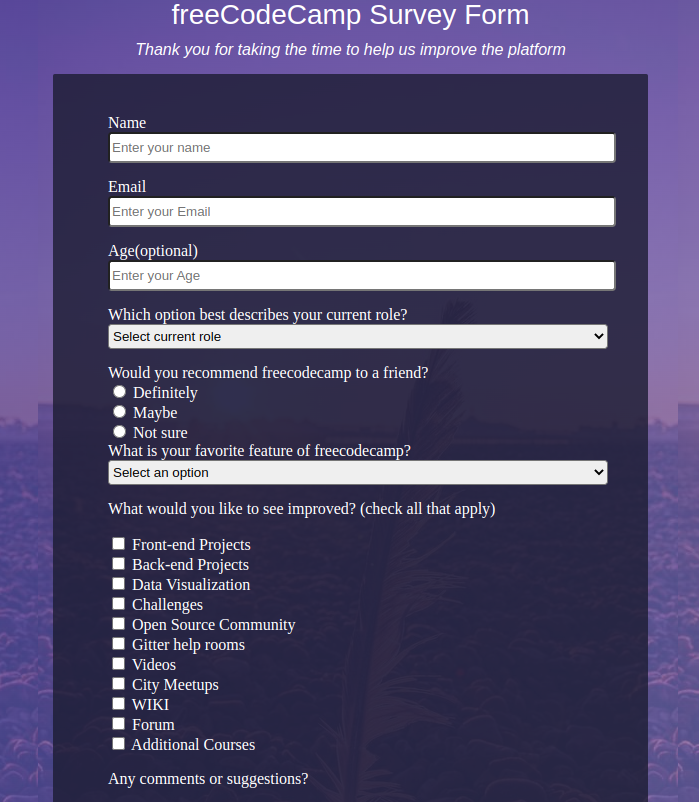
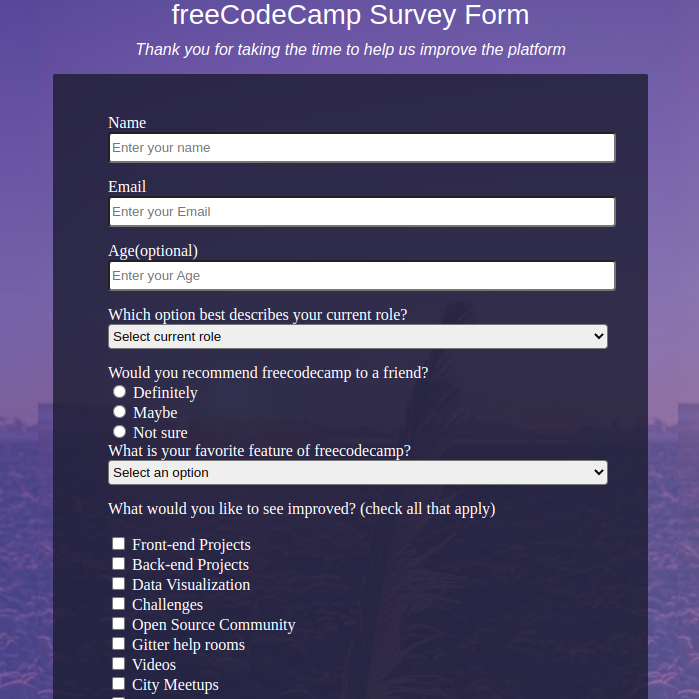
made it more responsive

diff --git a/assets/styles/styles.css b/assets/styles/styles.css
@@ -2,6 +2,7 @@ body {
   font-family: poppins, sans-serif;
   margin: 0;
   background-color: #303841;
+  scroll-behavior: smooth;
 }
 
 .nav {
@@ -24,6 +25,7 @@ body {
   font-size: 4vmin;
   text-decoration: none;
   color: #fff;
+  transition: 1s;
 }
 
 .dark-body {
@@ -58,7 +60,7 @@ body {
 }
 
 .project-containers {
-  width: 100%;
+  width: 98%;
   padding: 0;
   display: grid;
   grid-template-columns: 1fr 1fr 1fr;
@@ -143,6 +145,7 @@ img {
   font-size: 3.5rem;
   padding-top: 30vh;
   font-weight: bold;
+  word-break: keep-all;
 }
 
 .contact-header2 {
@@ -153,12 +156,13 @@ img {
 }
 
 .media-links {
-  background-color: gold;
   margin: 2.8rem auto 25rem;
-  text-align: center;
   display: flex;
+  flex-wrap: wrap;
   width: fit-content;
   height: fit-content;
+  margin: auto;
+  justify-content: space-around;
 }
 
 .media-links div {
@@ -166,7 +170,7 @@ img {
   flex-wrap: nowrap;
   padding: 5px;
   width: fit-content;
-  /* margin: auto; */
+  height: fit-content;
 }
 
 
@@ -174,6 +178,7 @@ img {
   transition: 0.5s;
   margin-top: 15px;
   height: 100%;
+  z-index: 1;
 }
 
 .media {
@@ -214,22 +219,28 @@ footer {
   }
 }
 
-@media only screen and (max-width: 768px) {
-  .dark-body {
-    width: 100vw;
+@media only screen and (max-width: 600px) {
+  .contact {
+    padding-bottom: 3rem;
   }
 
-  .projects {
-    width: 100vw;
+  .media-links {
+    width: 90%;
+    margin: 2.8rem auto 25r
   }
 
   .project-containers {
     grid-template-columns: 1fr;
   }
 
-  .contact {
-    width: 100vw;
+  .container {
+    width: 95%;
   }
+
+  img {
+    height: auto;
+  }
+
 
   footer {
     width: 100vw;

diff --git a/index.html b/index.html
@@ -25,7 +25,7 @@
                 a web developer
             </header>
     </section>
-    
+
     <section class="projects" id="work">
         <div class="projects-header">
             These are some of my projects
@@ -38,7 +38,7 @@
                     <div class="container-caption"> &#60; Tribute Page/&#62; </div>
                 </a>
             </div>
-            
+
            <div class="container">
                 <a href="https://rashjredmund.github.io/My-blog/" target="_blank">
                     <img src="assets/images/my-blog.png" alt="image of project 2">
@@ -79,7 +79,7 @@
     </section>
 
     <section class="contact" id="contact">
-         <div class="contact-header1">
+        <div class="contact-header1">
             Let's work together...
         </div>
         <div class="contact-header2">
